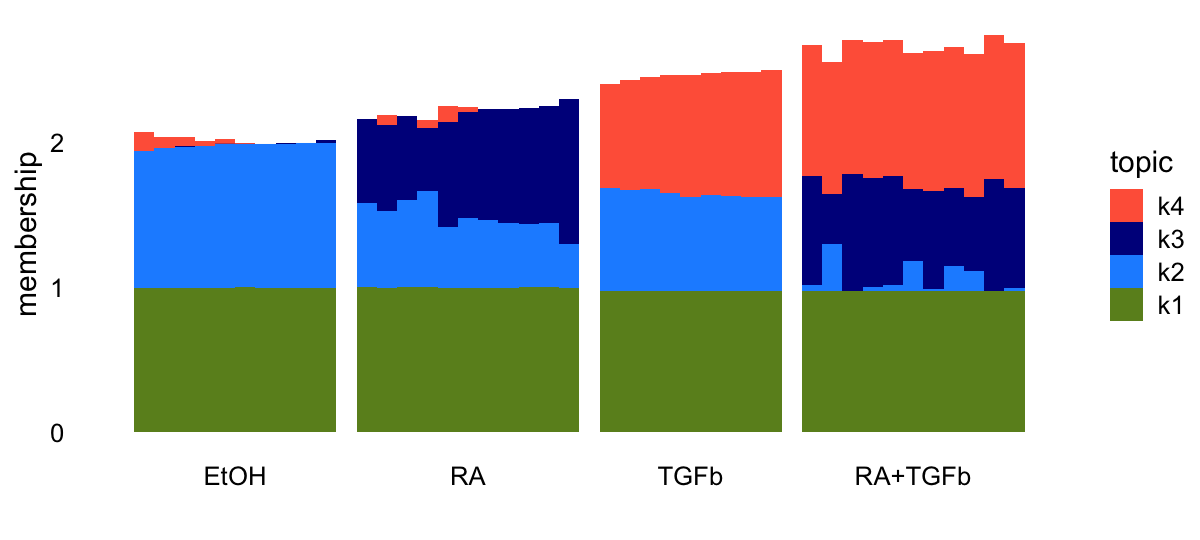
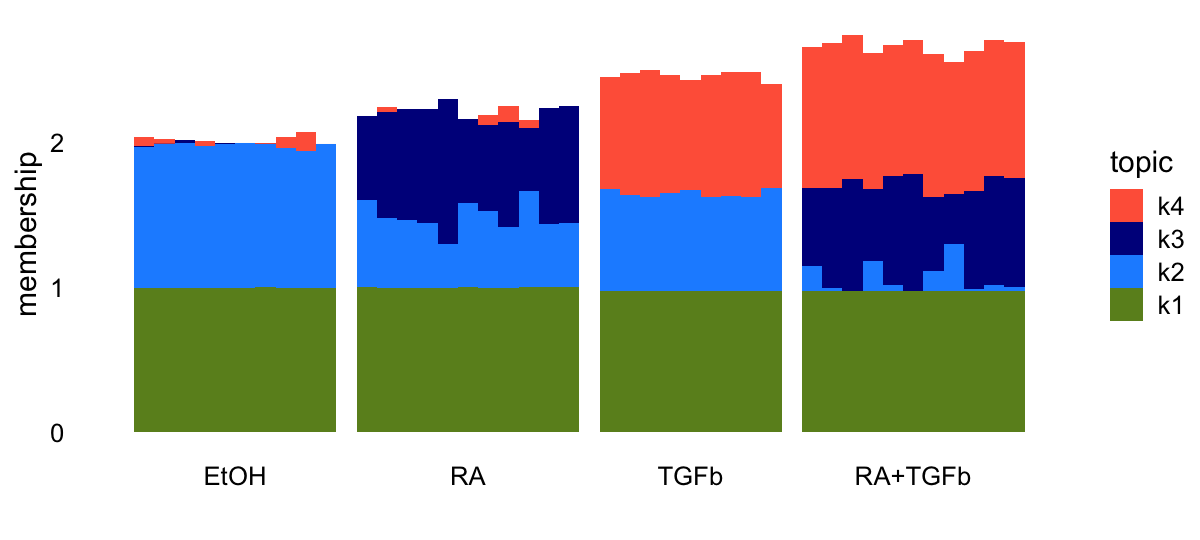
Ran wflow_publish("mcf7.Rmd").

diff --git a/docs/mcf7.html b/docs/mcf7.html
@@ -300,7 +300,7 @@ aria-hidden="true"></span> </a>
 <div class="tab-content">
 <div id="summary" class="tab-pane fade in active">
 <p>
-<strong>Last updated:</strong> 2025-06-03
+<strong>Last updated:</strong> 2025-06-30
 </p>
 <p>
 <strong>Checks:</strong> <span
@@ -440,15 +440,15 @@ project makes it easier to run your code on other machines.</p>
 <div class="panel panel-default">
 <div class="panel-heading">
 <p class="panel-title">
-<a data-toggle="collapse" data-parent="#workflowr-checks" href="#strongRepositoryversionstrongahrefhttpsgithubcomstephenslabsinglecelljamboreetree1ac5a526fb7f8ae61144f12d54f3aba0e6c6f259targetblank1ac5a52a">
+<a data-toggle="collapse" data-parent="#workflowr-checks" href="#strongRepositoryversionstrongahrefhttpsgithubcomstephenslabsinglecelljamboreetree23d0a0cf45ea79cf8a1a6cefdf3d2166827c0a64targetblank23d0a0ca">
 <span class="glyphicon glyphicon-ok text-success"
 aria-hidden="true"></span> <strong>Repository version:</strong>
-<a href="https://github.com/stephenslab/single-cell-jamboree/tree/1ac5a526fb7f8ae61144f12d54f3aba0e6c6f259" target="_blank">1ac5a52</a>
+<a href="https://github.com/stephenslab/single-cell-jamboree/tree/23d0a0cf45ea79cf8a1a6cefdf3d2166827c0a64" target="_blank">23d0a0c</a>
 </a>
 </p>
 </div>
 <div
[2 lines of base64/hex data omitted]
 class="panel-collapse collapse">
 <div class="panel-body">
 <p>
@@ -458,7 +458,7 @@ reproducibility.
 </p>
 <p>
 The results in this page were generated with repository version
-<a href="https://github.com/stephenslab/single-cell-jamboree/tree/1ac5a526fb7f8ae61144f12d54f3aba0e6c6f259" target="_blank">1ac5a52</a>.
+<a href="https://github.com/stephenslab/single-cell-jamboree/tree/23d0a0cf45ea79cf8a1a6cefdf3d2166827c0a64" target="_blank">23d0a0c</a>.
 See the <em>Past versions</em> tab to see a history of the changes made
 to the R Markdown and HTML files.
 </p>
@@ -473,11 +473,24 @@ were generated:
 </p>
 <pre><code>
 Untracked files:
+    Untracked:  analysis/lps_cache/
     Untracked:  analysis/mcf7_cache/
+    Untracked:  analysis/pancreas_cytokine_S1_factors_cache/
+    Untracked:  analysis/temp2.R
     Untracked:  data/GSE132188_adata.h5ad.h5
+    Untracked:  data/GSE183010/
     Untracked:  data/Immune_ALL_human.h5ad
+    Untracked:  data/pancreas_cytokine.RData
+    Untracked:  data/pancreas_cytokine_lsa.RData
     Untracked:  data/pancreas_endocrine.RData
     Untracked:  data/pancreas_endocrine_alldays.h5ad
+    Untracked:  output/panc_cyto_lsa_res/
+
+Unstaged changes:
+    Modified:   analysis/temp4.R
+
+Staged changes:
+    New:        analysis/temp4.R
 
 </code></pre>
 <p>
@@ -522,6 +535,126 @@ Message
 </tr>
 </thead>
 <tbody>
+<tr>
+<td>
+Rmd
+</td>
+<td>
+<a href="https://github.com/stephenslab/single-cell-jamboree/blob/7c52050d0a55790668ca50e7b615e6f835acf019/analysis/mcf7.Rmd" target="_blank">7c52050</a>
+</td>
+<td>
+Peter Carbonetto
+</td>
+<td>
+2025-06-30
+</td>
+<td>
+Added some scatterplots to the mcf7 analysis to visualize the F matrix.
+</td>
+</tr>
+<tr>
+<td>
+Rmd
+</td>
+<td>
+<a href="https://github.com/stephenslab/single-cell-jamboree/blob/22b502cd35372799375a6663135dedeee1756c6e/analysis/mcf7.Rmd" target="_blank">22b502c</a>
+</td>
+<td>
+Peter Carbonetto
+</td>
+<td>
+2025-06-28
+</td>
+<td>
+Added a couple more notes to mcf7.Rmd.
+</td>
+</tr>
+<tr>
+<td>
+Rmd
+</td>
+<td>
+<a href="https://github.com/stephenslab/single-cell-jamboree/blob/4559fc0d6016e471fc0f9adc90528f13702bbe37/analysis/mcf7.Rmd" target="_blank">4559fc0</a>
+</td>
+<td>
+Peter Carbonetto
+</td>
+<td>
+2025-06-28
+</td>
+<td>
+Added some notes to the mcf7 analysis.
+</td>
+</tr>
+<tr>
+<td>
+Rmd
+</td>
+<td>
+<a href="https://github.com/stephenslab/single-cell-jamboree/blob/0cb8ea79df6ccb8d523dc1c175a7c1a22356ce05/analysis/mcf7.Rmd" target="_blank">0cb8ea7</a>
+</td>
+<td>
+Peter Carbonetto
+</td>
+<td>
+2025-06-27
+</td>
+<td>
+Added scatterplots to compare the gene expression estimates (F) from the
+topic model.
+</td>
+</tr>
+<tr>
+<td>
+Rmd
+</td>
+<td>
+<a href="https://github.com/stephenslab/single-cell-jamboree/blob/1860816e06ad321cdba453f1730e00473c73b7b5/analysis/mcf7.Rmd" target="_blank">1860816</a>
+</td>
+<td>
+Peter Carbonetto
+</td>
+<td>
+2025-06-27
+</td>
+<td>
+Working on some improvements to the mcf-7 data analysis.
+</td>
+</tr>
+<tr>
+<td>
+Rmd
+</td>
+<td>
+<a href="https://github.com/stephenslab/single-cell-jamboree/blob/8f39607ebba82349cd62736373fc6886c917ec5f/analysis/mcf7.Rmd" target="_blank">8f39607</a>
+</td>
+<td>
+Peter Carbonetto
+</td>
+<td>
+2025-06-04
+</td>
+<td>
+Added steps to the lps analysis to load and prepare the data.
+</td>
+</tr>
+<tr>
+<td>
+html
+</td>
+<td>
+<a href="https://rawcdn.githack.com/stephenslab/single-cell-jamboree/de904d4aee4e79694d1beb3248e1ecdb43dccc50/docs/mcf7.html" target="_blank">de904d4</a>
+</td>
+<td>
+Peter Carbonetto
+</td>
+<td>
+2025-06-03
+</td>
+<td>
+Added flashier fit to the mcf7 analysis.
+</td>
+</tr>
 <tr>
 <td>
 Rmd
@@ -650,13 +783,14 @@ wflow_publish("mcf7.Rmd", verbose = TRUE, view = FALSE)
 </div>
 </div>
 <p>The MCF-7 data set from <a
-href="https://doi.org/10.7554/eLife.59388">Sanford et al eLife paper</a>
-is helpful for illustrating some of the basic ideas behind NMF analysis
-of single-cell data (even though it is actually a bulk RNA-seq data
-set!). This paper analyzed the transcriptional response of human MCF-7
-cells to retinoic acid and TGF-<span
-class="math inline">\(\beta\)</span>, applied individually and in
-combination. These data were downloaded from <a
+href="https://doi.org/10.7554/eLife.59388">Sanford et al 2020 eLife
+paper</a> is helpful for illustrating some of the basic ideas behind NMF
+analysis of single-cell data, although interpretation of the factors as
+gene programs is less clear.</p>
+<p>This paper analyzed the transcriptional response of human MCF-7 cells
+to retinoic acid and TGF-<span class="math inline">\(\beta\)</span>,
+applied individually and in combination. These data were downloaded from
+<a
 href="https://www.ncbi.nlm.nih.gov/geo/query/acc.cgi?acc=GSE152749">GEO
 accession GSE152749</a>.</p>
 <p>The following abbreviations are used in analysis: EtOH = ethanol; RA
@@ -721,11 +855,11 @@ i &lt;- which(x &gt; 3 &amp;
            genes$Status == &quot;active&quot;)
 genes  &lt;- genes[i,]
 counts &lt;- counts[,i]</code></pre>
-<p>(Some background: it turns out that there is some structure in the
-non-coding RNA genes that is is picked up by the Poisson-based methods
-but not by the Gaussian-based methods, so to avoid this complication in
-the comparisons I have removed these genes from the data, which aren’t
-of interest anyhow.)</p>
+<p><strong>Some background:</strong> it turns out that there is some
+structure in the non-coding RNA genes that is is picked up by the
+Poisson-based methods but not by the Gaussian-based methods, so to avoid
+this complication in the comparisons I have removed these genes from the
+data, which aren’t of interest anyhow.</p>
 <p>This is the dimension of the data set we will analyze:</p>
 <pre class="r"><code>dim(counts)
 # [1]    41 16773</code></pre>
@@ -852,11 +986,9 @@ tm &lt;- fit_poisson_nmf(counts,fit0 = tm0,numiter = 50,verbose = &quot;none&quo
 <p>Structure plot comparing the topics to the clusters or treatment
 conditions:</p>
 <pre class="r"><code>topic_colors &lt;- c(&quot;tomato&quot;,&quot;darkblue&quot;,&quot;dodgerblue&quot;)
-n    &lt;- nrow(tm$L)
-L    &lt;- poisson2multinom(tm)$L
-rows &lt;- order(pmax(L[,1],L[,2],L[,3]))
-L    &lt;- L[rows,]
-structure_plot(L,grouping = samples$label[rows],topics = 1:3,
+n &lt;- nrow(counts)
+L &lt;- poisson2multinom(tm)$L
+structure_plot(L,grouping = samples$label,topics = 1:3,
                loadings_order = 1:n,colors = topic_colors) +
   theme(axis.text.x = element_text(angle = 0,hjust = 0.5))</code></pre>
 <p><img src="figure/mcf7.Rmd/structure-plot-topic-model-1.png" width="600" style="display: block; margin: auto;" /></p>
@@ -897,6 +1029,47 @@ Peter Carbonetto
 </table>
 </div>
 </div>
+<p>It is also helpful to visualize the gene matrix, which we can roughly
+think about as capturing levels of gene expression. These next three
+scatterplots compare the estimated expression levels among the three
+topics (on the logarithmic scale).</p>
+<pre class="r"><code>gene_matrix_scatterplot &lt;- function (gene_matrix, k1, k2) {
+  ggplot(gene_matrix,aes_string(x = k1,y = k2)) +
+    geom_point(color = &quot;black&quot;) +
+    geom_abline(intercept = 0,slope = 1,color = &quot;orangered&quot;,
+                linetype = &quot;dashed&quot;) +
+    theme_cowplot(font_size = 10)
+}
+F &lt;- poisson2multinom(tm)$F
+colnames(F) &lt;- c(&quot;TGFb&quot;,&quot;RA&quot;,&quot;EtOH&quot;)
+F &lt;- log10(F + 1e-6)
+p1 &lt;- gene_matrix_scatterplot(F,&quot;EtOH&quot;,&quot;RA&quot;)
+# Warning: `aes_string()` was deprecated in ggplot2 3.0.0.
+# ℹ Please use tidy evaluation idioms with `aes()`.
+# ℹ See also `vignette(&quot;ggplot2-in-packages&quot;)` for more information.
+# This warning is displayed once every 8 hours.
+# Call `lifecycle::last_lifecycle_warnings()` to see where this warning was
+# generated.
+p2 &lt;- gene_matrix_scatterplot(F,&quot;EtOH&quot;,&quot;TGFb&quot;)
+p3 &lt;- gene_matrix_scatterplot(F,&quot;RA&quot;,&quot;TGFb&quot;)
+plot_grid(p1,p2,p3,nrow = 1,ncol = 3)</code></pre>
+<p><img src="figure/mcf7.Rmd/gene-matrix-scatterplots-topic-model-1.png" width="720" style="display: block; margin: auto;" /></p>
+<p>(Note: the gene matrix is being shown on the logarithmic scale in
+these plots.)</p>
+<p>What we see here is that most of the gene expression does not change
+much, except for a few genes far from the diagonal. These are the
+“distinctive” or “characteristic” genes for these factors. Looking at
+the genes with the top expression values (the largest elements of the
+<span class="math inline">\({\bf F}\)</span> matrix) will not isolate
+these distinctive genes. Intuitively, this is what we are often trying
+to do when performing differential expression analyses that compare
+different cell types: we are most interested in identifying the genes
+that show large differences in gene expression in the given cell type
+vs. other celltypes.</p>
+<p>Summary: although the topic model clearly is not just doing a simple
+clustering, the topics are often “cluster-like”, and therefore it is
+natural to think about analyses that are performed on clusters (e.g.,
+differential expression analysis) as also applying to this setting.</p>
 </div>
 <div id="ebnmf-flashier" class="section level2">
 <h2>EBNMF (flashier)</h2>
@@ -922,17 +1095,68 @@ remove this warning. See the
 >knitr cache options</a> for more details.
 </p>
 </div>
-<p>EBNMF applied to the shifted log count decomposes the samples in a
+<p>EBNMF applied to the shifted log counts decomposes the samples in a
 similar way as the topic model:</p>
 <pre class="r"><code>topic_colors &lt;- c(&quot;olivedrab&quot;,&quot;dodgerblue&quot;,&quot;darkblue&quot;,&quot;tomato&quot;)
-L    &lt;- ldf(fl_nmf,type = &quot;i&quot;)$L
-rows &lt;- order(pmax(L[,2],L[,3],L[,4]))
-L    &lt;- L[rows,]
-structure_plot(L,grouping = samples[rows,&quot;label&quot;],topics = 4:1,
+L &lt;- ldf(fl_nmf,type = &quot;i&quot;)$L
+structure_plot(L,grouping = samples$label,topics = 4:1,
                loadings_order = 1:n,colors = topic_colors) +
   labs(y = &quot;membership&quot;) +
   theme(axis.text.x = element_text(angle = 0,hjust = 0.5))</code></pre>
 <p><img src="figure/mcf7.Rmd/structure-plot-nmf-1.png" width="600" style="display: block; margin: auto;" /></p>
+<p>
+<button type="button" class="btn btn-default btn-xs btn-workflowr btn-workflowr-fig" data-toggle="collapse" data-target="#fig-structure-plot-nmf-1">
+Past versions of structure-plot-nmf-1.png
+</button>
+</p>
+<div id="fig-structure-plot-nmf-1" class="collapse">
+<div class="table-responsive">
+<table class="table table-condensed table-hover">
+<thead>
+<tr>
+<th>
+Version
+</th>
+<th>
+Author
+</th>
+<th>
+Date
+</th>
+</tr>
+</thead>
+<tbody>
+<tr>
+<td>
+<a href="https://github.com/stephenslab/single-cell-jamboree/blob/de904d4aee4e79694d1beb3248e1ecdb43dccc50/docs/figure/mcf7.Rmd/structure-plot-nmf-1.png" target="_blank">de904d4</a>
+</td>
+<td>
+Peter Carbonetto
+</td>
+<td>
+2025-06-03
+</td>
+</tr>
+</tbody>
+</table>
+</div>
+</div>
+<p>These next three scatterplots compare the factor estimates
+(approximately, LFCs) among the three factors other than the
+baseline:</p>
+<pre class="r"><code>F &lt;- ldf(fl_nmf,type = &quot;i&quot;)$F
+colnames(F) &lt;- paste0(&quot;k&quot;,1:4)
+colnames(F) &lt;- c(&quot;baseline&quot;,&quot;EtOH&quot;,&quot;RA&quot;,&quot;TGFb&quot;)
+pdat &lt;- cbind(genes[c(&quot;GeneID&quot;,&quot;Symbol&quot;)],F)
+p1 &lt;- gene_matrix_scatterplot(F,&quot;EtOH&quot;,&quot;RA&quot;)
+p2 &lt;- gene_matrix_scatterplot(F,&quot;EtOH&quot;,&quot;TGFb&quot;)
+p3 &lt;- gene_matrix_scatterplot(F,&quot;RA&quot;,&quot;TGFb&quot;)
+print(plot_grid(p1,p2,p3,nrow = 1,ncol = 3))</code></pre>
+<p><img src="figure/mcf7.Rmd/gene-matrix-scatterplot-1.png" width="720" style="display: block; margin: auto;" /></p>
+<p>More than the topic model, the NMF factors better isolate more
+“distinctive” genes; we see that the largest values of the gene matrix
+are often also a gene that is zero or small in the other factors,
+whereas this was clearly not true in the topic model.</p>
 <br>
 <p>
 <button type="button" class="btn btn-default btn-workflowr btn-workflowr-sessioninfo" data-toggle="collapse" data-target="#workflowr-sessioninfo" style="display: block;">
@@ -944,7 +1168,7 @@ Session information
 <pre class="r"><code>sessionInfo()
 # R version 4.3.3 (2024-02-29)
 # Platform: aarch64-apple-darwin20 (64-bit)
-# Running under: macOS 15.4.1
+# Running under: macOS 15.5
 # 
 # Matrix products: default
 # BLAS:   /Library/Frameworks/R.framework/Versions/4.3-arm64/Resources/lib/libRblas.0.dylib 
@@ -963,7 +1187,7 @@ Session information
 #  [1] cowplot_1.1.3             ggplot2_3.5.0            
 #  [3] singlecelljamboreeR_0.1-3 GEOquery_2.70.0          
 #  [5] Biobase_2.62.0            BiocGenerics_0.48.1      
-#  [7] data.table_1.15.2         flashier_1.0.55          
+#  [7] data.table_1.17.4         flashier_1.0.55          
 #  [9] ebnm_1.1-34               fastTopics_0.7-25        
 # [11] fastglmpca_0.1-108        rsvd_1.0.5               
 # 
